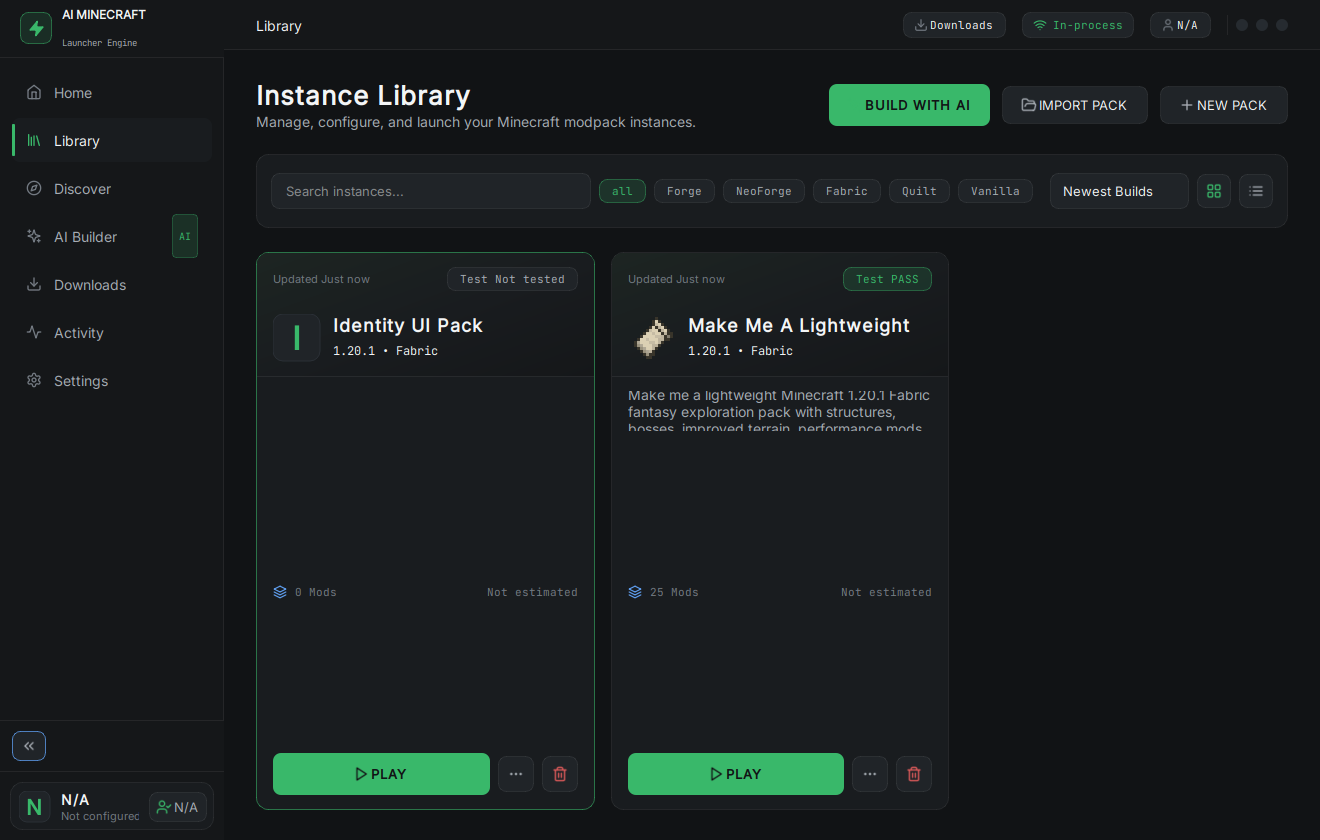
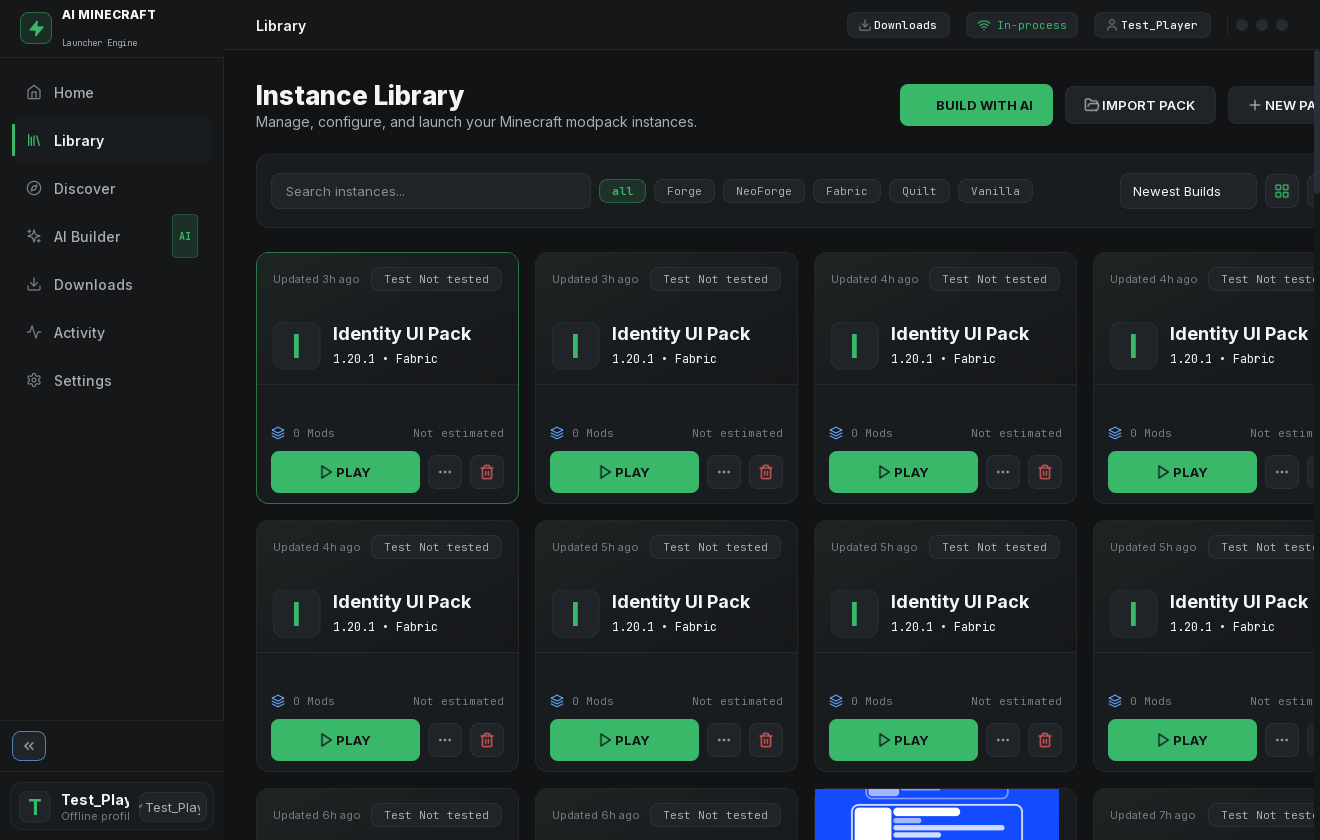
Library: square tiles + modpack artwork in the grid
Cards were wide 3-up rectangles; the grid is now adaptive 4-up with
near-square ~263x252 tiles and a tighter body. Packs with any image
show a CurseForge-style banner band (gallery screenshot preferred,
project icon fallback, status pill overlaid) with the name below;
packs without an image keep the existing gradient artwork band with
avatar + name. Imported packs capture their modpack project's artwork
at import time, AI-built packs use their flagship mod's image, and the
icon cache gained box= fill-crop support for banners.

🤖 Generated with Codebuff

diff --git a/pyqt/views/library.py b/pyqt/views/library.py
@@ -159,64 +159,96 @@ class LibraryView(QWidget):
         items = self._filtered()
         self._empty.setVisible(not items)
         if self._view_mode == "grid":
-            for col in range(3):
+            # Adaptive columns: squarer tiles on wide windows (4-up), fewer on
+            # narrow ones. Target ~250 px per card so tiles read square.
+            avail = max(200, self.width() - 64)
+            cols = max(2, min(4, avail // 250))
+            card_w = (avail - (cols - 1) * 16) // cols
+            for col in range(cols):
                 self._grid.setColumnStretch(col, 1)
             for i, b in enumerate(items):
-                self._grid.addWidget(self._grid_card(b), i // 3, i % 3)
+                self._grid.addWidget(self._grid_card(b, card_w), i // cols, i % cols)
         else:
             for i, b in enumerate(items):
                 self._grid.addWidget(self._list_card(b), i, 0)
 
     # ------------------------------------------------------------------
-    def _grid_card(self, b: dict) -> QFrame:
+    def _grid_card(self, b: dict, card_w: int) -> QFrame:
         c = QFrame(self)
         c.setProperty("cls", "card-selected" if b.get("buildId") == self.selected_id else "card")
-        c.setMinimumHeight(292)
+        c.setMinimumHeight(252)
         theme.polish(c)
         c.setCursor(Qt.CursorShape.PointingHandCursor)
         v = vbox(c, 0, margins=0)
 
-        artwork = QFrame(c)
-        artwork.setProperty("cls", "artwork")
-        artwork.setFixedHeight(124)
-        theme.polish(artwork)
-        av = vbox(artwork, 10, margins=(16, 14, 16, 14))
-        status_row = QHBoxLayout()
-        status_row.addWidget(label(artwork, f"Updated {fmt_ago(b.get('createdAt'))}", "muted"))
-        status_row.addStretch(1)
+        cover_url = b.get("coverUrl") or b.get("iconUrl")
         test_status = str(b.get("testStatus") or "Not tested")
         status_text = "Running" if b.get("running") else f"Test {test_status}"
         status_cls = "pill-danger" if test_status == "FAIL" and not b.get("running") else "pill"
-        status_row.addWidget(pill(artwork, status_text, bool(b.get("running") or test_status in {"PASS", "FAIL"}), status_cls))
-        av.addLayout(status_row)
-        av.addStretch(1)
+        status_on = bool(b.get("running") or test_status in {"PASS", "FAIL"})
 
-        top = QHBoxLayout()
-        top.setSpacing(12)
-        ic = QLabel(artwork)
-        ic.setFixedSize(48, 48)
-        url = b.get("iconUrl")
-        ic.setPixmap(avatar(b.get("name") or "?", theme.GREEN, 48, 10))
-        if url:
-            icon_cache.request(url, ic, 48)
-        top.addWidget(ic)
-        col = QVBoxLayout()
-        col.setSpacing(2)
-        t = label(artwork, b.get("name") or "Untitled", "h2")
-        t.setWordWrap(True)
-        col.addWidget(t)
-        col.addWidget(label(artwork, f"{b.get('mcVersion') or ''} • {(b.get('loader') or '').capitalize()}", "mono"))
-        top.addLayout(col, 1)
-        av.addLayout(top)
+        # Banner band: the pack's own image fills the tile (CurseForge style),
+        # with the status pill overlaid; packs without any image keep the
+        # gradient artwork band with avatar + name exactly as before.
+        artwork = QFrame(c)
+        artwork.setProperty("cls", "artwork")
+        artwork.setFixedHeight(132)
+        theme.polish(artwork)
+        if cover_url:
+            grid = QGridLayout(artwork)
+            grid.setContentsMargins(0, 0, 0, 0)
+            grid.setSpacing(0)
+            img = QLabel(artwork)
+            img.setPixmap(avatar(b.get("name") or "?", theme.GREEN, 132, 0))
+            icon_cache.request(cover_url, img, box=(card_w - 2, 131))
+            grid.addWidget(img, 0, 0)
+            overlay = QWidget(artwork)
+            ol = vbox(overlay, 0, margins=(12, 10, 12, 10))
+            row = QHBoxLayout()
+            row.addStretch(1)
+            row.addWidget(pill(artwork, status_text, status_on, status_cls))
+            ol.addLayout(row)
+            grid.addWidget(overlay, 0, 0)
+        else:
+            av = vbox(artwork, 10, margins=(16, 14, 16, 14))
+            status_row = QHBoxLayout()
+            status_row.addWidget(label(artwork, f"Updated {fmt_ago(b.get('createdAt'))}", "muted"))
+            status_row.addStretch(1)
+            status_row.addWidget(pill(artwork, status_text, status_on, status_cls))
+            av.addLayout(status_row)
+            av.addStretch(1)
+            top = QHBoxLayout()
+            top.setSpacing(12)
+            ic = QLabel(artwork)
+            ic.setFixedSize(48, 48)
+            url = b.get("iconUrl")
+            ic.setPixmap(avatar(b.get("name") or "?", theme.GREEN, 48, 10))
+            if url:
+                icon_cache.request(url, ic, 48)
+            top.addWidget(ic)
+            col = QVBoxLayout()
+            col.setSpacing(2)
+            t = label(artwork, b.get("name") or "Untitled", "h2")
+            t.setWordWrap(True)
+            col.addWidget(t)
+            col.addWidget(label(artwork, f"{b.get('mcVersion') or ''} • {(b.get('loader') or '').capitalize()}", "mono"))
+            top.addLayout(col, 1)
+            av.addLayout(top)
         v.addWidget(artwork)
 
         body = QWidget(c)
-        bv = vbox(body, 10, margins=(16, 14, 16, 14))
-        desc = label(body, (b.get("description") or b.get("request") or ""), "sub")
-        desc.setWordWrap(True)
-        desc.setMinimumHeight(40)
-        desc.setMaximumHeight(40)
-        bv.addWidget(desc)
+        bv = vbox(body, 8, margins=(14, 10, 14, 10))
+        # Banner cards carry the name in the body; fallback cards already show
+        # it inside the artwork band — never repeat it.
+        if cover_url:
+            t = label(body, b.get("name") or "Untitled", "h3")
+            t.setWordWrap(True)
+            bv.addWidget(t)
+        else:
+            desc = label(body, (b.get("description") or b.get("request") or ""), "sub")
+            desc.setWordWrap(True)
+            desc.setMaximumHeight(34)
+            bv.addWidget(desc)
 
         meta = QHBoxLayout()
         meta.setSpacing(8)
@@ -246,11 +278,11 @@ class LibraryView(QWidget):
             play.clicked.connect(lambda: self.play_requested.emit(b.get("buildId")))
             actions.addWidget(play, 1)
         more = icon_btn(body, "more", "Manage content")
-        more.setFixedSize(36, 36)
+        more.setFixedSize(34, 34)
         more.clicked.connect(lambda: self.open_detail.emit(b.get("buildId")))
         actions.addWidget(more)
         trash = icon_btn(body, "trash", "Delete pack", theme.DANGER if not b.get("running") else theme.TEXT2)
-        trash.setFixedSize(36, 36)
+        trash.setFixedSize(34, 34)
         trash.setEnabled(not b.get("running"))
         trash.clicked.connect(lambda: self.delete_requested.emit(b.get("buildId")))
         actions.addWidget(trash)

diff --git a/pyqt/common.py b/pyqt/common.py
@@ -153,13 +153,27 @@ class _ImageWorker(QRunnable):
             pass
 
 
+def _fit_pixmap(pm: QPixmap, size: int, box: Optional[tuple] = None) -> QPixmap:
+    """Scale a cached pixmap for a label: square by default, or fill-crop a
+    (w, h) box (banner/cover images — like CurseForge cards)."""
+    if box:
+        w, h = box
+        scaled = pm.scaled(w, h, Qt.AspectRatioMode.KeepAspectRatioByExpanding,
+                           Qt.TransformationMode.SmoothTransformation)
+        x = max(0, (scaled.width() - w) // 2)
+        y = max(0, (scaled.height() - h) // 2)
+        return scaled.copy(x, y, min(w, scaled.width() - x), min(h, scaled.height() - y))
+    return pm.scaled(size, size, Qt.AspectRatioMode.KeepAspectRatio,
+                     Qt.TransformationMode.SmoothTransformation)
+
+
 class IconCache(QObject):
     ready = pyqtSignal(str, object)  # url, bytes | None
 
     def __init__(self):
         super().__init__()
         self._cache: dict[str, QPixmap] = {}
-        self._pending: dict[str, list[tuple[QLabel, int]]] = {}
+        self._pending: dict[str, list[tuple]] = {}
         self._loading: set[str] = set()
         self._failed_at: dict[str, float] = {}
         local = os.environ.get("LOCALAPPDATA")
@@ -173,27 +187,29 @@ class IconCache(QObject):
     def pixmap_for(self, url: str, size: int = 48) -> Optional[QPixmap]:
         pm = self._cache.get(url)
         if pm and not pm.isNull():
-            return pm.scaled(size, size, Qt.AspectRatioMode.KeepAspectRatio,
-                             Qt.TransformationMode.SmoothTransformation)
+            return _fit_pixmap(pm, size)
         self.request(url, None, size)
         return None
 
-    def request(self, url: str, label: Optional[QLabel], size: int = 48) -> None:
+    def request(self, url: str, label: Optional[QLabel], size: int = 48,
+                box: Optional[tuple] = None) -> None:
+        """Queue an image load. `box=(w, h)` fills and center-crops the band
+        (banner covers); the default keeps the square-icon behavior."""
         if not url or self._closed:
             return
         pm = self._cache.get(url)
         if pm and not pm.isNull():
             if label:
                 try:
-                    label.setPixmap(pm.scaled(size, size, Qt.AspectRatioMode.KeepAspectRatio,
-                                              Qt.TransformationMode.SmoothTransformation))
+                    label.setPixmap(_fit_pixmap(pm, size, box))
                 except RuntimeError:
                     pass
             return
         if label is not None:
             waiting = self._pending.setdefault(url, [])
-            if not any(existing is label and existing_size == size for existing, existing_size in waiting):
-                waiting.append((label, size))
+            if not any(existing is label and existing_size == size and existing_box == box
+                       for existing, existing_size, existing_box in waiting):
+                waiting.append((label, size, box))
         if url in self._loading:
             return
         # Avoid hammering a broken URL while cards are re-rendered.
@@ -220,13 +236,12 @@ class IconCache(QObject):
         labels = self._pending.pop(url, [])
         if pm.isNull():
             return
-        for target, size in labels:
+        for target, size, box in labels:
             try:
                 # Apply even when a parent page is currently hidden. Checking
                 # isVisible() here discarded fast cache hits before a new card
                 # had been inserted into its layout.
-                target.setPixmap(pm.scaled(size, size, Qt.AspectRatioMode.KeepAspectRatio,
-                                           Qt.TransformationMode.SmoothTransformation))
+                target.setPixmap(_fit_pixmap(pm, size, box))
             except RuntimeError:
                 pass  # card was deleted while the request was in flight
 

diff --git a/pyqt/main.py b/pyqt/main.py
@@ -879,15 +879,25 @@ class MainWindow(QMainWindow):
         sel = rec.get("selections") or []
         nodes = ((rec.get("graph") or {}).get("nodes") or {})
         icon_url = None
+        cover_url = rec.get("coverUrl") or None
         for s in sel[:6]:
             key = s.get("key") or f"{s.get('provider')}:{s.get('projectId')}"
             project = (nodes.get(key) or {}).get("project") or {}
-            if project.get("iconUrl"):
-                icon_url = project.get("iconUrl")
+            # Cover: prefer a real gallery screenshot (CurseForge-style banner),
+            # falling back to the project icon so every pack with any image
+            # gets a picture instead of a letter tile.
+            if not cover_url:
+                gallery = project.get("gallery") or []
+                if gallery and (gallery[0].get("url") or gallery[0].get("thumbnailUrl")):
+                    cover_url = gallery[0].get("url") or gallery[0].get("thumbnailUrl")
+            if not icon_url:
+                if project.get("iconUrl"):
+                    icon_url = project.get("iconUrl")
+                elif s.get("provider") == "modrinth" and s.get("projectId"):
+                    icon_url = f"https://cdn.modrinth.com/data/{s['projectId']}/icon.png"
+            if icon_url and cover_url:
                 break
-            if s.get("provider") == "modrinth" and s.get("projectId"):
-                icon_url = f"https://cdn.modrinth.com/data/{s['projectId']}/icon.png"
-                break
+        cover_url = cover_url or icon_url
         mc_version = reqs.get("minecraftVersion") or ""
         loader_name = reqs.get("loader") or ""
         raw_description = rec.get("request") or rec.get("finalReport") or ""
@@ -912,6 +922,7 @@ class MainWindow(QMainWindow):
             "hardwareFit": hardware_fit,
             "ramTarget": ram_target,
             "iconUrl": icon_url,
+            "coverUrl": cover_url,
         }
 
     def _update_dl_badge(self) -> None:

diff --git a/pyqt/engine/service.py b/pyqt/engine/service.py
@@ -2038,6 +2038,13 @@ class PyEngine:
         rec = self.create_pack(name=proj["title"],
                                mc=(v.get("gameVersions") or ["1.20.1"])[0],
                                loader=(v.get("loaders") or ["fabric"])[0])
+        # Keep the modpack's own artwork so the Library card can show a
+        # CurseForge-style banner for the pack itself.
+        gallery = proj.get("gallery") or []
+        if gallery and (gallery[0].get("url") or gallery[0].get("thumbnailUrl")):
+            rec["coverUrl"] = gallery[0].get("url") or gallery[0].get("thumbnailUrl")
+        elif proj.get("iconUrl"):
+            rec["coverUrl"] = proj.get("iconUrl")
         bdir = self._build_dir(rec["buildId"])
         rec["request"] = f"Imported {proj['title']} from {provider}"
         dl_dir = bdir / "imports"

diff --git a/CHANGELOG.md b/CHANGELOG.md
@@ -1,5 +1,22 @@
 # Changelog
 
+## 2026-08-12 — Library: square tiles + modpack artwork in the grid
+
+- **Library cards are now smaller, squarer tiles.** The grid switched from
+  three wide rectangles to an adaptive 4-up layout (~263×252, near-square)
+  that falls back to 3-up on narrow windows, with tighter body spacing and
+  a shorter banner band.
+- **Modpacks with artwork show it like CurseForge.** Each card's top band is
+  now the pack's own image (gallery screenshot preferred, project icon
+  otherwise) — fill-cropped to the banner with the status pill overlaid,
+  and the pack name below it. Imported packs keep their modpack project's
+  artwork (captured at import), AI-built packs use their flagship mod's
+  image, and packs with no image at all keep the existing gradient artwork
+  band with avatar + name exactly as before.
+- **New `box=` fill-crop support in the icon cache** so banner images scale
+  to the band instead of letterboxing; existing square-icon callers are
+  unchanged.
+
 ## 2026-08-12 — 1.0.12: Settings overlay — every tab documented, Escape-to-close, remembered tab
 
 - **Settings is no longer a sidebar within a sidebar.** The Settings page is
